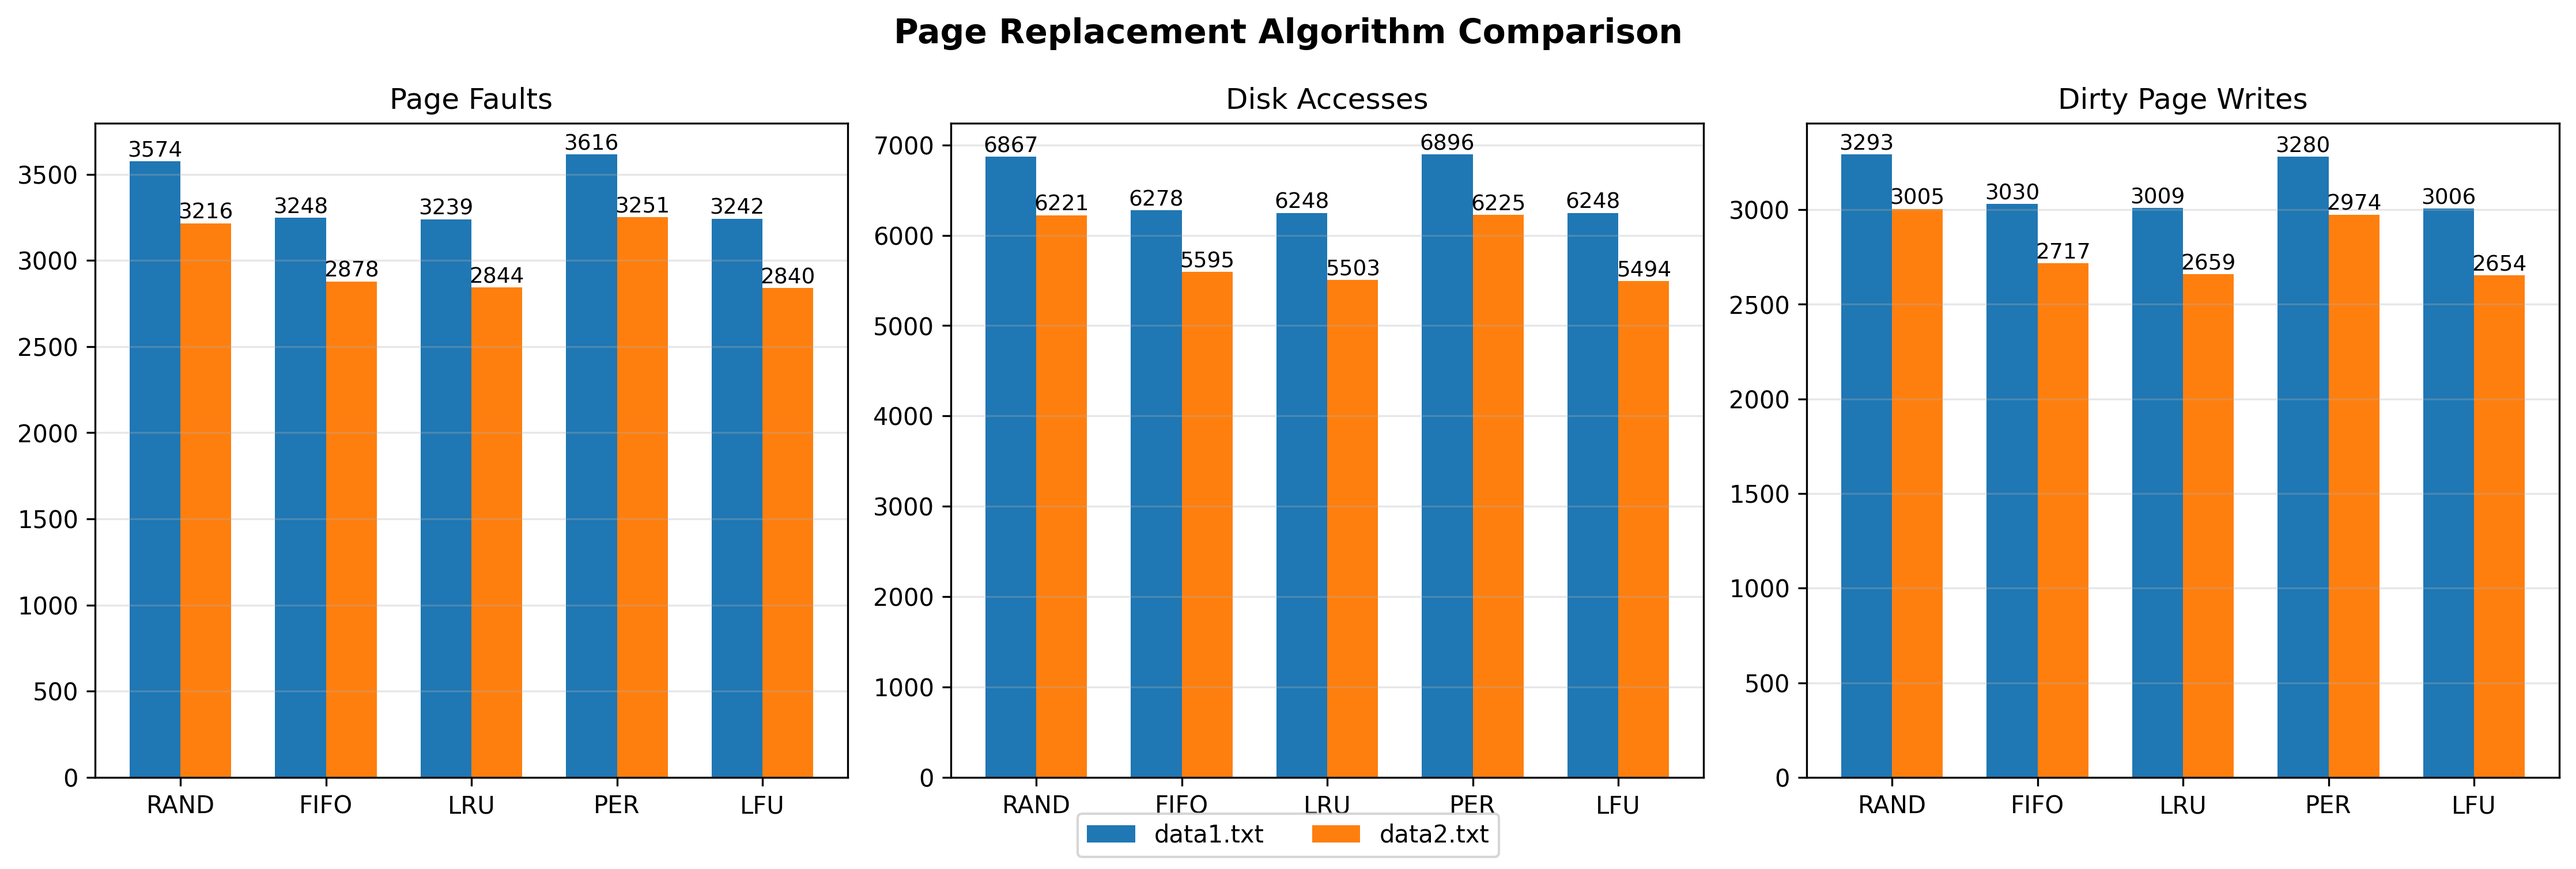
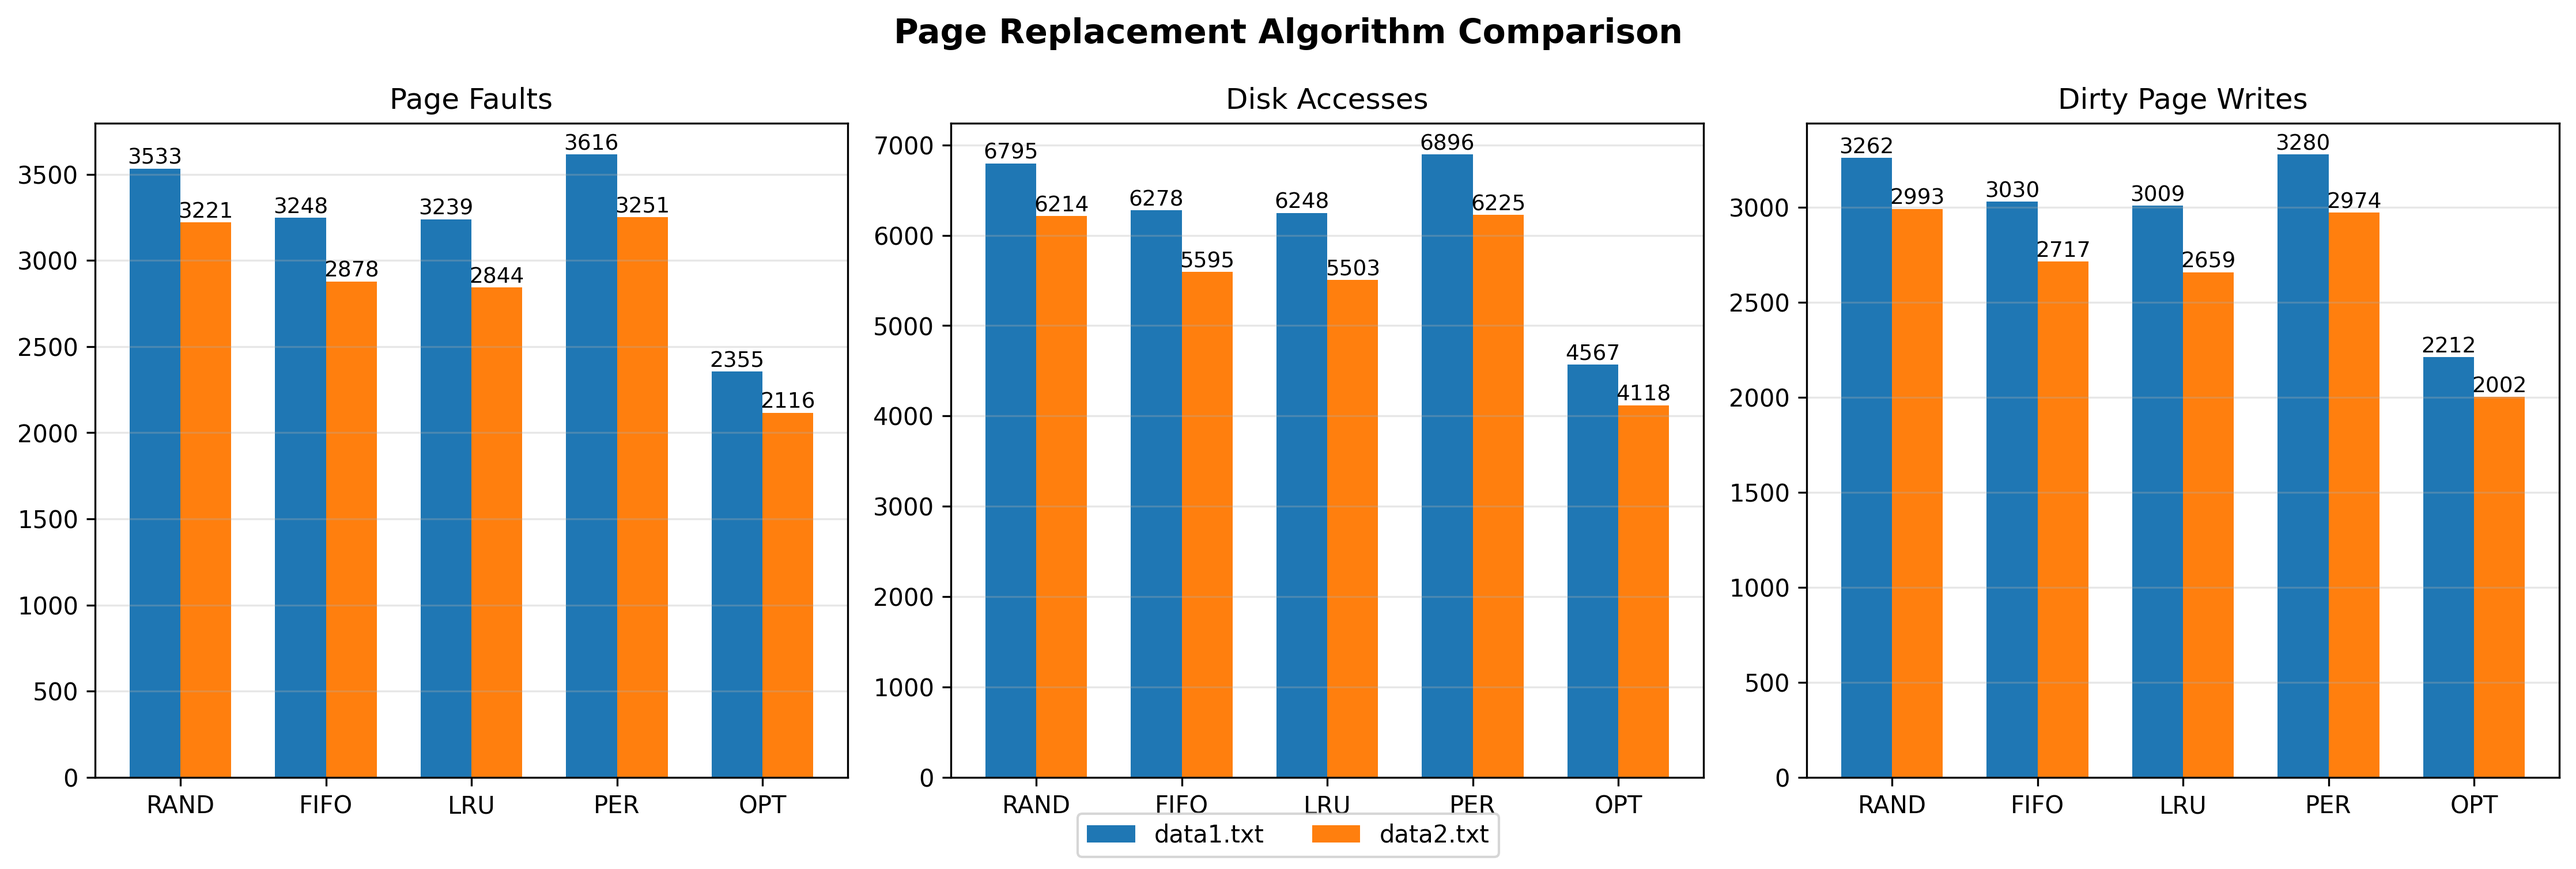
OPT algorithm

diff --git a/simulator.py b/simulator.py
@@ -5,12 +5,13 @@ import random
 
 class VirtualMemorySimulator:
     
-    def __init__(self, algorithm='FIFO', random_seed=None):
+    def __init__(self, algorithm='FIFO', random_seed=None, future_references=None):
         self.algorithm = algorithm
         self.physical_memory = PhysicalMemory(num_frames=32)
         self.page_tables = {}  # process_id -> PageTable
         self.stats = Statistics()
         self.current_time = 0
+        self.future_references = future_references
         
         # Set random seed for RAND algorithm
         if algorithm == 'RAND':
@@ -43,7 +44,6 @@ class VirtualMemorySimulator:
         # Update reference bit and last access time
         entry.reference = True
         entry.last_access_time = self.current_time
-        entry.access_count += 1
         
         # Check if page is in memory
         if entry.is_valid():
@@ -88,8 +88,8 @@ class VirtualMemorySimulator:
             return self.select_victim_lru()
         elif self.algorithm == 'PER':
             return self.select_victim_per()
-        elif self.algorithm == 'LFU':
-            return self.select_victim_lfu()
+        elif self.algorithm == 'OPT':
+            return self.select_victim_optimal()
         else:
             raise ValueError(f"Unknown algorithm: {self.algorithm}")
     
@@ -144,64 +144,6 @@ class VirtualMemorySimulator:
         
         return self.evict_page(victim_frame)
     
-    def select_victim_lfu(self):
-        # First pass: find the oldest access time (like LRU)
-        oldest_time = float('inf')
-        candidates = []  # Pages with oldest access times
-        
-        for frame_num in range(self.physical_memory.num_frames):
-            proc_id, vpage_num = self.physical_memory.get_frame_info(frame_num)
-            page_table = self.page_tables[proc_id]
-            entry = page_table.get_entry(vpage_num)
-            
-            if entry.last_access_time < oldest_time:
-                oldest_time = entry.last_access_time
-                candidates = [(frame_num, entry, proc_id, vpage_num)]
-            elif entry.last_access_time == oldest_time:
-                candidates.append((frame_num, entry, proc_id, vpage_num))
-
-        RECENCY_WINDOW = 10  # Similar recency
-        
-
-        if len(candidates) == 1:
-            # Check if other pages are within the window
-            for frame_num in range(self.physical_memory.num_frames):
-                proc_id, vpage_num = self.physical_memory.get_frame_info(frame_num)
-                page_table = self.page_tables[proc_id]
-                entry = page_table.get_entry(vpage_num)
-                
-                if entry.last_access_time <= oldest_time + RECENCY_WINDOW:
-                    if (frame_num, entry, proc_id, vpage_num) not in candidates:
-                        candidates.append((frame_num, entry, proc_id, vpage_num))
-        
-        victim_frame = candidates[0][0]
-        victim_entry = candidates[0][1]
-        victim_dirty = victim_entry.dirty
-        victim_page_num = candidates[0][3]
-        min_frequency = victim_entry.access_count
-        
-        for frame_num, entry, proc_id, vpage_num in candidates[1:]:
-            if entry.access_count < min_frequency:
-                victim_frame = frame_num
-                victim_entry = entry
-                victim_dirty = entry.dirty
-                victim_page_num = vpage_num
-                min_frequency = entry.access_count
-            elif entry.access_count == min_frequency:
-                # Same frequency - prefer non-dirty, then lower page number
-                if not entry.dirty and victim_dirty:
-                    victim_frame = frame_num
-                    victim_entry = entry
-                    victim_dirty = entry.dirty
-                    victim_page_num = vpage_num
-                elif entry.dirty == victim_dirty and vpage_num < victim_page_num:
-                    victim_frame = frame_num
-                    victim_entry = entry
-                    victim_dirty = entry.dirty
-                    victim_page_num = vpage_num
-        
-        return self.evict_page(victim_frame)
-    
     def select_victim_per(self):
         categories = [
             (False, False),  # unreferenced, clean
@@ -228,6 +170,64 @@ class VirtualMemorySimulator:
         
         return self.evict_page(0)
     
+    def select_victim_optimal(self):
+        """
+        Optimal algorithm: Replace the page that will be used furthest in the future
+        (or never used again).
+        """
+        if self.future_references is None:
+            raise ValueError("OPT algorithm requires future_references to be provided")
+        
+        # Find the next reference time for each page currently in memory
+        max_future_time = -1
+        victim_frame = 0
+        victim_dirty = True
+        victim_page_num = float('inf')
+        
+        for frame_num in range(self.physical_memory.num_frames):
+            proc_id, vpage_num = self.physical_memory.get_frame_info(frame_num)
+            page_table = self.page_tables[proc_id]
+            entry = page_table.get_entry(vpage_num)
+            
+            # Look ahead in future references to find when this page will be referenced next
+            next_ref_time = None
+            for idx in range(self.current_time, len(self.future_references)):
+                future_proc_id, future_page_num = self.future_references[idx]
+                if future_proc_id == proc_id and future_page_num == vpage_num:
+                    next_ref_time = idx
+                    break
+            
+            # If page is never referenced again, it's the best candidate
+            if next_ref_time is None:
+                # Never used again - this is optimal to replace
+                # Use tiebreaker: prefer non-dirty, then lower page number
+                if victim_frame == 0 or (not entry.dirty and victim_dirty) or \
+                   (entry.dirty == victim_dirty and vpage_num < victim_page_num):
+                    victim_frame = frame_num
+                    victim_dirty = entry.dirty
+                    victim_page_num = vpage_num
+                    max_future_time = float('inf')  # Never referenced
+            else:
+                # Page will be referenced at next_ref_time
+                # We want to replace the page referenced furthest in the future
+                if next_ref_time > max_future_time:
+                    max_future_time = next_ref_time
+                    victim_frame = frame_num
+                    victim_dirty = entry.dirty
+                    victim_page_num = vpage_num
+                elif next_ref_time == max_future_time:
+                    # Same future time - tiebreaker: prefer non-dirty, then lower page number
+                    if not entry.dirty and victim_dirty:
+                        victim_frame = frame_num
+                        victim_dirty = entry.dirty
+                        victim_page_num = vpage_num
+                    elif entry.dirty == victim_dirty and vpage_num < victim_page_num:
+                        victim_frame = frame_num
+                        victim_dirty = entry.dirty
+                        victim_page_num = vpage_num
+        
+        return self.evict_page(victim_frame)
+    
     def evict_page(self, frame_num):
         proc_id, vpage_num = self.physical_memory.get_frame_info(frame_num)
         page_table = self.page_tables[proc_id]
@@ -239,7 +239,6 @@ class VirtualMemorySimulator:
         entry.physical_page_num = None
         entry.dirty = False
         entry.reference = False
-        entry.access_count = 0  # Reset access count for LFU
         
         return frame_num, is_dirty
     
@@ -247,6 +246,20 @@ class VirtualMemorySimulator:
         print(f"\n{'='*60}")
         print(f"Running {self.algorithm} algorithm on {filename}")
         print(f"{'='*60}")
+        
+        if self.algorithm == 'OPT' and self.future_references is None:
+            # Load all references first
+            future_refs = []
+            with open(filename, 'r') as f:
+                for line in f:
+                    parts = line.strip().split()
+                    if len(parts) != 3:
+                        continue
+                    process_id = int(parts[0])
+                    address = int(parts[1])
+                    page_num = address >> 9  # Parse address
+                    future_refs.append((process_id, page_num))
+            self.future_references = future_refs
         
         with open(filename, 'r') as f:
             for line in f:
@@ -268,7 +281,7 @@ class VirtualMemorySimulator:
 
 
 def main():
-    algorithms = ['RAND', 'FIFO', 'LRU', 'PER', 'LFU']
+    algorithms = ['RAND', 'FIFO', 'LRU', 'PER', 'OPT']
     data_files = ['data1.txt', 'data2.txt']
     
     results = {}

diff --git a/test_small.py b/test_small.py
@@ -9,7 +9,7 @@ def test_small():
         for i, line in enumerate(f, 1):
             print(f"  Line {i}: {line.strip()}")
 
-    algorithms = ['RAND', 'FIFO', 'LRU', 'PER', 'LFU']
+    algorithms = ['RAND', 'FIFO', 'LRU', 'PER', 'OPT']
     
     for algorithm in algorithms:
         print(f"\n{algorithm} Algorithm:")

diff --git a/page_table.py b/page_table.py
@@ -6,7 +6,6 @@ class PageTableEntry:
         self.reference = False
         self.last_access_time = 0
         self.load_time = 0  # For FIFO
-        self.access_count = 0  # For LFU
         
     def is_valid(self):
         return self.physical_page_num is not None

diff --git a/generate_graphs.py b/generate_graphs.py
@@ -1,7 +1,7 @@
 import matplotlib.pyplot as plt
 from simulator import VirtualMemorySimulator
 
-algorithms = ['RAND', 'FIFO', 'LRU', 'PER', 'LFU']
+algorithms = ['RAND', 'FIFO', 'LRU', 'PER', 'OPT']
 data_files = ['data1.txt', 'data2.txt']
 results = {}
 

diff --git a/README.md b/README.md
@@ -16,18 +16,18 @@ This project simulates a virtual memory system with five page replacement algori
 
 ## Running the Simulator
 
-Running all four algorithms on both input files:
+Running all algorithms on both input files:
 
 ```bash
 python simulator.py
 ```
 
 This will execute:
-- **RAND** - Random replacement (uses random seed each run)
+- **RAND** - Random Replacement
 - **FIFO** - First In First Out
 - **LRU** - Least Recently Used
 - **PER** - Periodic Reference Reset
-- **LFU** - LRU and Least Frequently Used Hybrid
+- **OPT** - Optimal from Future Knowledge
 
 on both `data1.txt` and `data2.txt`, displaying statistics for each run.
 
